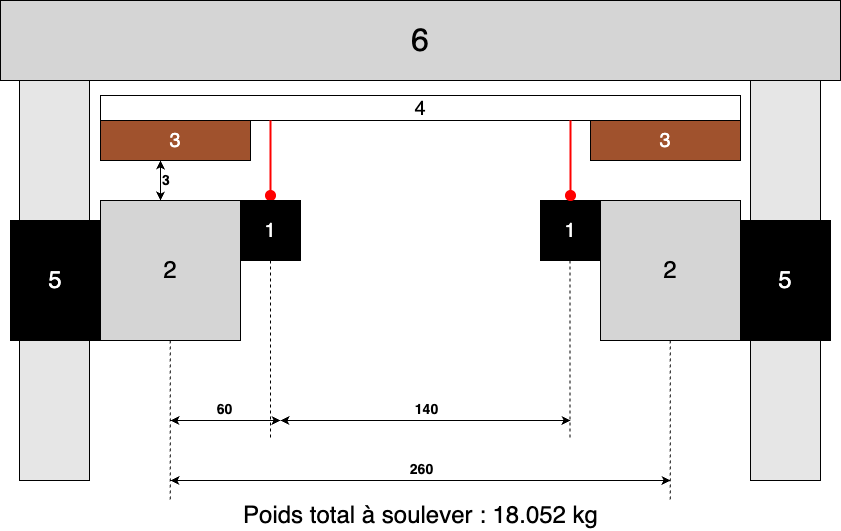
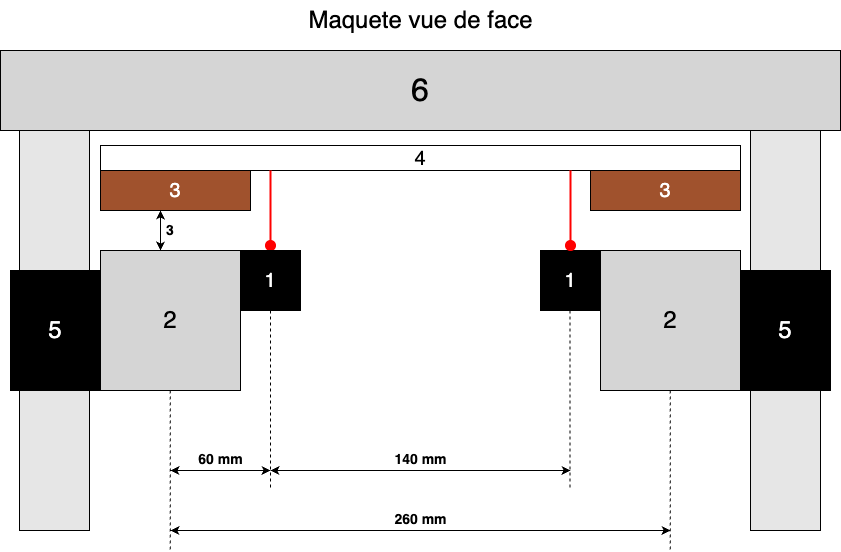
Ajout d'une photo de la mesure du poids

diff --git a/content/06-MesureCartePrincipale.tex b/content/06-MesureCartePrincipale.tex
@@ -1,9 +1,14 @@
-\chapter{Mesure de la carte principale}
+\chapter{Mesure du hardware - Carte principale}
 
 \section{Introduction}
-La mesure de la carte principale permet de déterminer plusieurs points des hypothèses émise tel que
+La mesure de la carte principale permet de déterminer plusieurs points des hypothèses émise tel que :
 
-\subsection{Objéctif de la mesure}
+\begin{itemize}
+    \item Une mauvaise calibration globale du système empêche le décollage.
+    \item L'intégration de l'électronique embarquée a modifié la masse totale du système, faussant ainsi les paramètres de la régulation.
+\end{itemize}
+
+\subsection{Objectif de la mesure}
 Les objéctif de la mesure sont :
 
 \begin{itemize}
@@ -33,6 +38,17 @@ Lors de la mesure effectuée pour ce travail, un résultat identique a été obt
 \end{figure}
 
 Cela vient prouver le bon fonctionnement du circuit de précharge.
+
+\section{Mesure du poids}
+Le poids fut mesurer. Pour ce faire, les poids visser à l'avant de la maquette furrent retirer afin d'y extraire la partie en lévitation. Celle- ci fut alors mesuré au moyen d'une balance disponible au MakeLab ainsi qu'une plaque pour correctement répartir le poids :
+
+\begin{figure}[H]
+    \centering
+    \includegraphics[width=0.75\linewidth]{assets/Chap3/MesureMasse.jpeg}
+    \caption{Mesure de la masse total de la partie en lévitation}
+\end{figure}
+
+À la suite d’une mesure de masse, la partie lévitante ne pèse pas 13,6 kg, comme indiqué dans les travaux précédents, mais 18,052 kg.
 
 \section{Mesure des régulateurs}
 

diff --git a/content/02-Maquette.tex b/content/02-Maquette.tex
@@ -57,7 +57,7 @@ Les éléments numérotés ci-dessous sont les suivants :
     \item La partie supérieure contenant l’électronique.
 \end{enumerate}
 
-La partie supérieure et la partie inférieure assemblées constituent l’ensemble lévitant. À la suite d’une mesure de masse, la partie lévitante ne pèse pas 13,6 kg, comme indiqué dans les travaux précédents, mais 18,052 kg.
+La partie supérieure et la partie inférieure assemblées constituent l’ensemble lévitant.
 
 Les inducteurs présentent une résistance de $0,8\text{ }\Omega$ et comportent chacun 125 spires. La surface des entrefers sont de $1000\text{ }mm^2$ ($50\text{ }mm\text{ }x\text{ }20\text{ }mm$).
 
